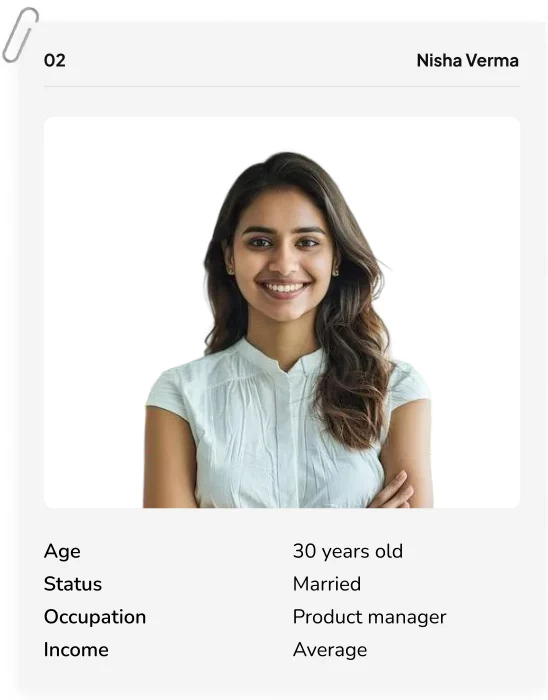
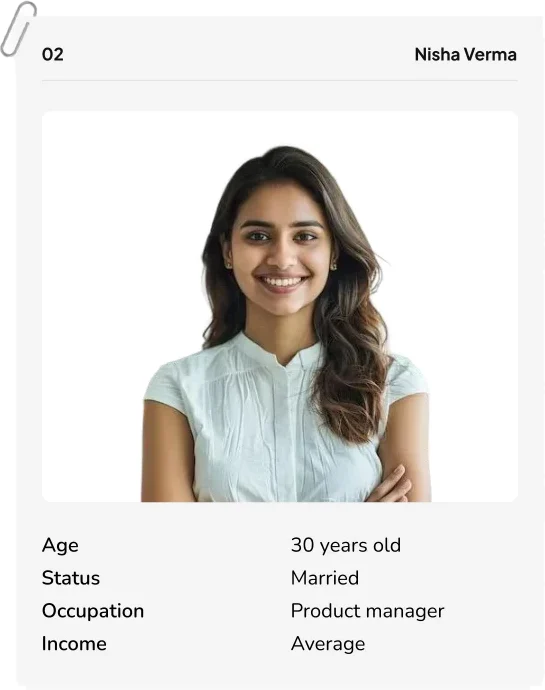
Healthfab personas: transparent margins so the hover shadow follows the card
Claude-Session: https://claude.ai/code/session_01BoaNENeVEWygz9ixqah9RB

diff --git a/seed/work/healthfab.html b/seed/work/healthfab.html
@@ -44,10 +44,10 @@
         <p>Nine researched user segments, from college athletes to homemakers buying for daughters, distilled into 4 core personas, giving the rest of the process a real audience to design for.</p>
       </div>
       <div class="fig grid g4">
-        <div class="persona"><img src="healthfab/persona1.webp" width="548" height="700" alt="Persona 01, Asha Singh: 19 years old, single, 2nd-year B.Com. student, below average income"></div>
-        <div class="persona"><img src="healthfab/persona2.webp" width="548" height="700" alt="Persona 02, Nisha Verma: 30 years old, married, product manager, average income"></div>
-        <div class="persona"><img src="healthfab/persona3.webp" width="548" height="700" alt="Persona 03, Sarita Patel: 38 years old, married, house maker, average income"></div>
-        <div class="persona"><img src="healthfab/persona4.webp" width="548" height="700" alt="Persona 04, Rohan Mehta: 32 years old, married, Sr. Software Engineer, average income"></div>
+        <div class="persona"><img src="healthfab/persona1.webp" width="545" height="690" alt="Persona 01, Asha Singh: 19 years old, single, 2nd-year B.Com. student, below average income"></div>
+        <div class="persona"><img src="healthfab/persona2.webp" width="545" height="690" alt="Persona 02, Nisha Verma: 30 years old, married, product manager, average income"></div>
+        <div class="persona"><img src="healthfab/persona3.webp" width="545" height="690" alt="Persona 03, Sarita Patel: 38 years old, married, house maker, average income"></div>
+        <div class="persona"><img src="healthfab/persona4.webp" width="547" height="690" alt="Persona 04, Rohan Mehta: 32 years old, married, Sr. Software Engineer, average income"></div>
       </div>
       <div class="sub">
         <h3>Finding a brand essence that was ours to own</h3>
